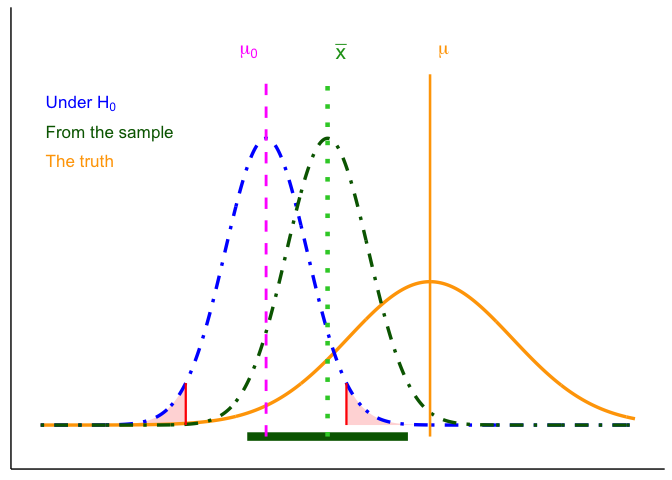
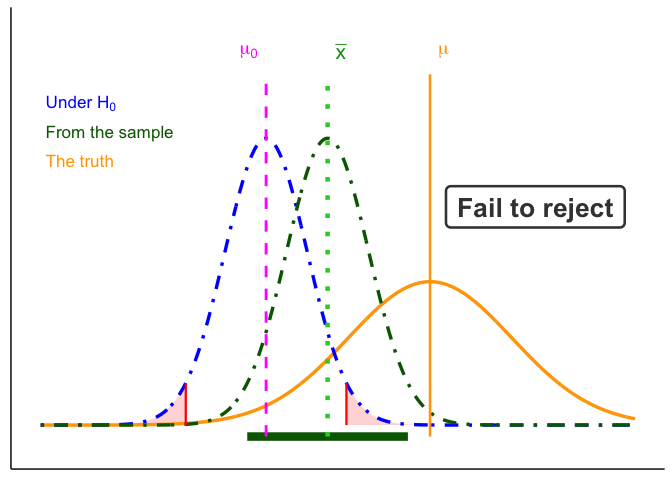
Ch5: verdict labels on the error figures, and the Type II pair by sample size
Add the bold Reject / Fail to reject label from the recap GIF to both
error figures (red for Reject, dark gray for Fail to reject).

Bring back the idea of the sample-size figures removed in October 2025:
the Type II situation drawn at n and at 4n, with the same mu0, true mu
and population. x-bar lands 2.5 standard errors below mu in both, so the
bad luck is the same; with four times the sample the standard error
halves and the interval clears mu0. Figure and caption only, under
"Effect of Sample Size on Errors". The old Type I pair is not rebuilt:
it held x-bar fixed in raw units, which implied larger samples make
Type I errors more likely, contradicting that section.

error_panel() gains a y range and a verdict argument; the existing
figures keep their defaults.

Changed region(s): [[0.6562, 0.375, 0.9375, 0.5]]

diff --git a/docs/05-Hypothesis_Testing.html b/docs/05-Hypothesis_Testing.html
@@ -463,6 +463,20 @@ Figure&nbsp;5.4: The two error rates, drawn on sampling distributions. Top: <spa
 <section id="effect-of-sample-size-on-errors" class="level3" data-number="5.1.1">
 <h3 data-number="5.1.1" class="anchored" data-anchor-id="effect-of-sample-size-on-errors"><span class="header-section-number">5.1.1</span> Effect of Sample Size on Errors</h3>
 <p>With fixed <span class="math inline">\(\alpha\)</span> and correct assumptions, the long-run Type I error rate is <span class="math inline">\(\alpha\)</span> for any <span class="math inline">\(n\)</span>. <strong>Sample size mainly affects Type II error:</strong> with small <span class="math inline">\(n\)</span>, the sampling distribution is wide, true effects are harder to detect, and <span class="math inline">\(\beta\)</span> increases (power decreases). As <span class="math inline">\(n\)</span> grows, the sampling distribution tightens, <span class="math inline">\(\beta\)</span> falls, and power rises. Apparent changes in the Type I rate at small <span class="math inline">\(n\)</span> usually reflect <strong>assumption violations</strong> (e.g., non-normality, poor variance estimates, multiple looks), not <span class="math inline">\(n\)</span> itself.</p>
+<div class="cell">
+<div class="cell-output-display">
+<div id="fig-5type2-samplesize" class="quarto-float quarto-figure quarto-figure-center anchored" alt="Two stacked panels on the same axes. Both show a blue dot-dash curve centered on a magenta dashed line labeled mu sub 0 with red critical lines, a wide orange curve centered on an orange line labeled mu well to the right, and a dark-green dot-dash curve centered on a lime-green dotted line labeled x-bar between them, with a dark-green confidence interval bar underneath. Top panel: the blue and green curves are wide and short, the interval bar reaches back past mu sub 0, and a gray box reads Fail to reject. Bottom panel: the blue and green curves are half as wide and twice as tall, x-bar sits closer to mu, the interval bar ends well to the right of mu sub 0, and a red box reads Reject. The orange curve is the same in both panels.">
+<figure class="quarto-float quarto-float-fig figure">
+<div aria-describedby="fig-5type2-samplesize-caption-0ceaefa1-69ba-4598-a22c-09a6ac19f8ca">
+<img src="05-Hypothesis_Testing_files/figure-html/fig-5type2-samplesize-1.png" class="img-fluid figure-img" style="width:100.0%" alt="Two stacked panels on the same axes. Both show a blue dot-dash curve centered on a magenta dashed line labeled mu sub 0 with red critical lines, a wide orange curve centered on an orange line labeled mu well to the right, and a dark-green dot-dash curve centered on a lime-green dotted line labeled x-bar between them, with a dark-green confidence interval bar underneath. Top panel: the blue and green curves are wide and short, the interval bar reaches back past mu sub 0, and a gray box reads Fail to reject. Bottom panel: the blue and green curves are half as wide and twice as tall, x-bar sits closer to mu, the interval bar ends well to the right of mu sub 0, and a red box reads Reject. The orange curve is the same in both panels.">
+</div>
+<figcaption class="quarto-float-caption-bottom quarto-float-caption quarto-float-fig" id="fig-5type2-samplesize-caption-0ceaefa1-69ba-4598-a22c-09a6ac19f8ca">
+Figure&nbsp;5.5: The Type II situation at two sample sizes, with the same <span class="math inline">\(\mu_0\)</span>, true <span class="math inline">\(\mu\)</span> and population. In both, <span class="math inline">\(\bar{x}\)</span> lands 2.5 standard errors below <span class="math inline">\(\mu\)</span>. Top: the confidence interval catches <span class="math inline">\(\mu_0\)</span>, so we fail to reject. Bottom: with four times the sample, the standard error halves, the same bad luck leaves the interval clear of <span class="math inline">\(\mu_0\)</span>, and we reject.
+</figcaption>
+</figure>
+</div>
+</div>
+</div>
 <p><strong>The one-tailed cost, made precise.</strong> Chapter 4 said that habitually running one-tailed tests makes you reject more often than your stated <span class="math inline">\(\alpha\)</span> implies. Here is what that means: a one-tailed test at <span class="math inline">\(\alpha = .05\)</span> puts the whole 5% in one tail, so if you pick the tail <em>after</em> seeing which way the data went, you have effectively run a two-tailed test at <span class="math inline">\(\alpha = .10\)</span> and doubled your Type I error rate. The test itself is not wrong. Choosing its direction from the data is.</p>
 </section>
 <section id="how-to-interpret-p-values" class="level3" data-number="5.1.2">
@@ -540,7 +554,7 @@ Figure&nbsp;5.4: The two error rates, drawn on sampling distributions. Top: <spa
 <li>Pair effect sizes with <strong>95% CIs</strong> to show precision, not just magnitude.</li>
 </ul>
 <p>Let’s ground effect size in a concrete example. Suppose we’re measuring <strong>final exam performance</strong> (percent correct). The class mean is 65% with a standard deviation of 5%. Group A is a control, while Group B receives some instructional treatment.</p>
-<p><a href="#fig-5.5effectdistsB" class="quarto-xref">Figure&nbsp;<span>5.5</span></a> shows four possible scenarios:</p>
+<p><a href="#fig-5.5effectdistsB" class="quarto-xref">Figure&nbsp;<span>5.6</span></a> shows four possible scenarios:</p>
 <div class="cell">
 <div class="cell-output-display">
 <div id="fig-5.5effectdistsB" class="quarto-float quarto-figure quarto-figure-center anchored" alt="Four panels, each showing two overlaid bell-shaped density curves for groups A and B. In the first panel the curves sit exactly on top of each other (no shift). In the next three panels group B's curve shifts progressively further right of group A's, first by a small amount, then a larger amount, and finally a shift so large the two curves barely overlap at all.">
@@ -549,7 +563,7 @@ Figure&nbsp;5.4: The two error rates, drawn on sampling distributions. Top: <spa
 <img src="05-Hypothesis_Testing_files/figure-html/fig-5.5effectdistsB-1.png" class="img-fluid figure-img" style="width:100.0%" alt="Four panels, each showing two overlaid bell-shaped density curves for groups A and B. In the first panel the curves sit exactly on top of each other (no shift). In the next three panels group B's curve shifts progressively further right of group A's, first by a small amount, then a larger amount, and finally a shift so large the two curves barely overlap at all.">
 </div>
 <figcaption class="quarto-float-caption-bottom quarto-float-caption quarto-float-fig" id="fig-5.5effectdistsB-caption-0ceaefa1-69ba-4598-a22c-09a6ac19f8ca">
-Figure&nbsp;5.5: Same idea with concrete scores (mean <span class="math inline">\(65\)</span>, <span class="math inline">\(sd=5\)</span>): treatment shifts correspond to <span class="math inline">\(d=0,\,0.5,\,1,\,2\)</span>.
+Figure&nbsp;5.6: Same idea with concrete scores (mean <span class="math inline">\(65\)</span>, <span class="math inline">\(sd=5\)</span>): treatment shifts correspond to <span class="math inline">\(d=0,\,0.5,\,1,\,2\)</span>.
 </figcaption>
 </figure>
 </div>
@@ -573,7 +587,7 @@ Figure&nbsp;5.5: Same idea with concrete scores (mean <span class="math inline">
 <li><strong>The test is less conservative</strong> (larger <span class="math inline">\(\alpha\)</span>).</li>
 <li><strong>Measurement noise is lower</strong> (smaller <span class="math inline">\(SD\)</span>).</li>
 </ol>
-<p>That raises the practical planning question: with <span class="math inline">\(\alpha\)</span> fixed at 0.05, how large must <span class="math inline">\(n\)</span> be to reach 80% power for the smallest effect that matters? <a href="#fig-5.5powercurveN" class="quarto-xref">Figure&nbsp;<span>5.7</span></a> answers it for one such effect.</p>
+<p>That raises the practical planning question: with <span class="math inline">\(\alpha\)</span> fixed at 0.05, how large must <span class="math inline">\(n\)</span> be to reach 80% power for the smallest effect that matters? <a href="#fig-5.5powercurveN" class="quarto-xref">Figure&nbsp;<span>5.8</span></a> answers it for one such effect.</p>
 <section id="simulation-walkthrough" class="level3" data-number="5.4.1">
 <h3 data-number="5.4.1" class="anchored" data-anchor-id="simulation-walkthrough"><span class="header-section-number">5.4.1</span> Simulation walkthrough</h3>
 <p>Let’s see how design choices affect power with a simple simulation. Suppose we have two groups, each with <span class="math inline">\(n=10\)</span>. Group A (control) is sampled from a normal distribution with mean = 10 and <span class="math inline">\(SD = 5\)</span>. Group B (treatment) has a mean = 12.5, a shift of 2.5 points (Cohen’s <span class="math inline">\(d=0.5\)</span>), considered a medium effect.</p>
@@ -629,7 +643,7 @@ Figure&nbsp;5.5: Same idea with concrete scores (mean <span class="math inline">
 <section id="power-curves" class="level3" data-number="5.4.3">
 <h3 data-number="5.4.3" class="anchored" data-anchor-id="power-curves"><span class="header-section-number">5.4.3</span> Power curves</h3>
 <p>It’s best to think of power as a <strong>profile</strong>, not a single number. A power curve shows how sensitive a design is across a range of possible effects.</p>
-<p>In <a href="#fig-5.5powercurve" class="quarto-xref">Figure&nbsp;<span>5.6</span></a>, we fix the design to a two-sample <span class="math inline">\(t\)</span>-test with <span class="math inline">\(n=10\)</span> per group and <span class="math inline">\(\alpha=0.05\)</span>. Power is plotted on the y-axis, and the true effect size (Cohen’s <span class="math inline">\(d\)</span>) is on the x-axis.</p>
+<p>In <a href="#fig-5.5powercurve" class="quarto-xref">Figure&nbsp;<span>5.7</span></a>, we fix the design to a two-sample <span class="math inline">\(t\)</span>-test with <span class="math inline">\(n=10\)</span> per group and <span class="math inline">\(\alpha=0.05\)</span>. Power is plotted on the y-axis, and the true effect size (Cohen’s <span class="math inline">\(d\)</span>) is on the x-axis.</p>
 <div class="cell">
 <div class="cell-output-display">
 <div id="fig-5.5powercurve" class="quarto-float quarto-figure quarto-figure-center anchored" alt="Line graph of power against effect size (Cohen's d) from 0 to 2. The curve starts near 0.05 at d = 0, rises slowly at first, then climbs steeply through the middle of the range, and flattens out near 1.0 as d approaches 2.">
@@ -638,7 +652,7 @@ Figure&nbsp;5.5: Same idea with concrete scores (mean <span class="math inline">
 <img src="05-Hypothesis_Testing_files/figure-html/fig-5.5powercurve-1.png" class="img-fluid figure-img" style="width:100.0%" alt="Line graph of power against effect size (Cohen's d) from 0 to 2. The curve starts near 0.05 at d = 0, rises slowly at first, then climbs steeply through the middle of the range, and flattens out near 1.0 as d approaches 2.">
 </div>
 <figcaption class="quarto-float-caption-bottom quarto-float-caption quarto-float-fig" id="fig-5.5powercurve-caption-0ceaefa1-69ba-4598-a22c-09a6ac19f8ca">
-Figure&nbsp;5.6: Power vs.&nbsp;effect size (Cohen’s <span class="math inline">\(d\)</span>) for a two-sample <span class="math inline">\(t\)</span>-test with <span class="math inline">\(n=10\)</span> per group and <span class="math inline">\(\alpha=0.05\)</span>.
+Figure&nbsp;5.7: Power vs.&nbsp;effect size (Cohen’s <span class="math inline">\(d\)</span>) for a two-sample <span class="math inline">\(t\)</span>-test with <span class="math inline">\(n=10\)</span> per group and <span class="math inline">\(\alpha=0.05\)</span>.
 </figcaption>
 </figure>
 </div>
@@ -652,7 +666,7 @@ Figure&nbsp;5.6: Power vs.&nbsp;effect size (Cohen’s <span class="math inline"
 </ul>
 <p>This shows that small samples are only sensitive to big, obvious effects.</p>
 <p>Now suppose prior research suggests the effect size is small (<span class="math inline">\(d=0.2\)</span>). Instead of varying the effect, we can ask: <em>how many samples per group do we need to have decent power?</em></p>
-<p><a href="#fig-5.5powercurveN" class="quarto-xref">Figure&nbsp;<span>5.7</span></a> plots power against sample size for detecting <span class="math inline">\(d=0.2\)</span>. The green line marks 80% power, a common planning target.</p>
+<p><a href="#fig-5.5powercurveN" class="quarto-xref">Figure&nbsp;<span>5.8</span></a> plots power against sample size for detecting <span class="math inline">\(d=0.2\)</span>. The green line marks 80% power, a common planning target.</p>
 <div class="cell">
 <div class="cell-output-display">
 <div id="fig-5.5powercurveN" class="quarto-float quarto-figure quarto-figure-center anchored" alt="Line graph of power against sample size per group, from 10 to 800. Power starts near zero at small sample sizes and rises in a curve that flattens as it approaches 1.0. A horizontal reference line at 0.80 power crosses the curve around a sample size of roughly 394 per group.">
@@ -661,7 +675,7 @@ Figure&nbsp;5.6: Power vs.&nbsp;effect size (Cohen’s <span class="math inline"
 <img src="05-Hypothesis_Testing_files/figure-html/fig-5.5powercurveN-1.png" class="img-fluid figure-img" style="width:100.0%" alt="Line graph of power against sample size per group, from 10 to 800. Power starts near zero at small sample sizes and rises in a curve that flattens as it approaches 1.0. A horizontal reference line at 0.80 power crosses the curve around a sample size of roughly 394 per group.">
 </div>
 <figcaption class="quarto-float-caption-bottom quarto-float-caption quarto-float-fig" id="fig-5.5powercurveN-caption-0ceaefa1-69ba-4598-a22c-09a6ac19f8ca">
-Figure&nbsp;5.7: Power vs.&nbsp;sample size for detecting <span class="math inline">\(d=0.2\)</span> with a two-sample <span class="math inline">\(t\)</span>-test at <span class="math inline">\(\alpha=0.05\)</span>; green line marks <span class="math inline">\(0.80\)</span> power.
+Figure&nbsp;5.8: Power vs.&nbsp;sample size for detecting <span class="math inline">\(d=0.2\)</span> with a two-sample <span class="math inline">\(t\)</span>-test at <span class="math inline">\(\alpha=0.05\)</span>; green line marks <span class="math inline">\(0.80\)</span> power.
 </figcaption>
 </figure>
 </div>
@@ -698,7 +712,7 @@ Figure&nbsp;5.7: Power vs.&nbsp;sample size for detecting <span class="math inli
 <li><p><strong>Low power inflates doubt, even when</strong> <span class="math inline">\(p&lt;0.05\)</span>. Underpowered studies rarely replicate. A design with only 30% power to detect an expected effect might, by luck, produce a “significant” result, but most replications will not. Worse, false positives from small samples tend to look exaggerated: if a spurious finding reaches significance, the estimated effect size is often large enough to seem convincing.</p></li>
 <li><p><strong>Huge</strong> <span class="math inline">\(n\)</span> finds tiny effects. With very large samples, trivial differences can register as statistically significant. For example, a billion-person trial might show a drug reduces pain by 0.01%. That effect is “real” but practically meaningless. This is why effect size and confidence intervals should be reported alongside <span class="math inline">\(p\)</span>-values: significance alone is not enough.</p></li>
 </ul>
-<p><a href="#fig-5.5effectsizeType1" class="quarto-xref">Figure&nbsp;<span>5.8</span></a> shows the first pitfall graphically. Even when the null hypothesis is true, 5% of tests are expected to fall below <span class="math inline">\(\alpha = 0.05\)</span>. In small samples, those false positives tend to be paired with large apparent effect sizes. This can give the illusion of a strong, replicable finding when in reality it is just sampling noise.</p>
+<p><a href="#fig-5.5effectsizeType1" class="quarto-xref">Figure&nbsp;<span>5.9</span></a> shows the first pitfall graphically. Even when the null hypothesis is true, 5% of tests are expected to fall below <span class="math inline">\(\alpha = 0.05\)</span>. In small samples, those false positives tend to be paired with large apparent effect sizes. This can give the illusion of a strong, replicable finding when in reality it is just sampling noise.</p>
 <div class="cell">
 <div class="cell-output-display">
 <div id="fig-5.5effectsizeType1" class="quarto-float quarto-figure quarto-figure-center anchored" alt="Scatter plot of apparent effect size against p-value, restricted to the false positives with p below 0.05, colored by sample size (10, 50, 100, and 1000). Points from the smallest sample size, 10, reach the highest apparent effect sizes, well above 1. Points cluster progressively lower as sample size increases, with the sample size of 1000 group sitting close to zero across the full range of p-values.">
@@ -707,7 +721,7 @@ Figure&nbsp;5.7: Power vs.&nbsp;sample size for detecting <span class="math inli
 <img src="05-Hypothesis_Testing_files/figure-html/fig-5.5effectsizeType1-1.png" class="img-fluid figure-img" style="width:100.0%" alt="Scatter plot of apparent effect size against p-value, restricted to the false positives with p below 0.05, colored by sample size (10, 50, 100, and 1000). Points from the smallest sample size, 10, reach the highest apparent effect sizes, well above 1. Points cluster progressively lower as sample size increases, with the sample size of 1000 group sitting close to zero across the full range of p-values.">
 </div>
 <figcaption class="quarto-float-caption-bottom quarto-float-caption quarto-float-fig" id="fig-5.5effectsizeType1-caption-0ceaefa1-69ba-4598-a22c-09a6ac19f8ca">
-Figure&nbsp;5.8: Apparent effect size among Type I errors (<span class="math inline">\(p&lt;0.05\)</span>) under the null, by sample size, for a one-sample <span class="math inline">\(t\)</span>-test. Effect sizes are shown as absolute values, since a false positive is equally likely in either direction and the sign carries no information here. Small <span class="math inline">\(n\)</span> inflates apparent effects.
+Figure&nbsp;5.9: Apparent effect size among Type I errors (<span class="math inline">\(p&lt;0.05\)</span>) under the null, by sample size, for a one-sample <span class="math inline">\(t\)</span>-test. Effect sizes are shown as absolute values, since a false positive is equally likely in either direction and the sign carries no information here. Small <span class="math inline">\(n\)</span> inflates apparent effects.
 </figcaption>
 </figure>
 </div>
